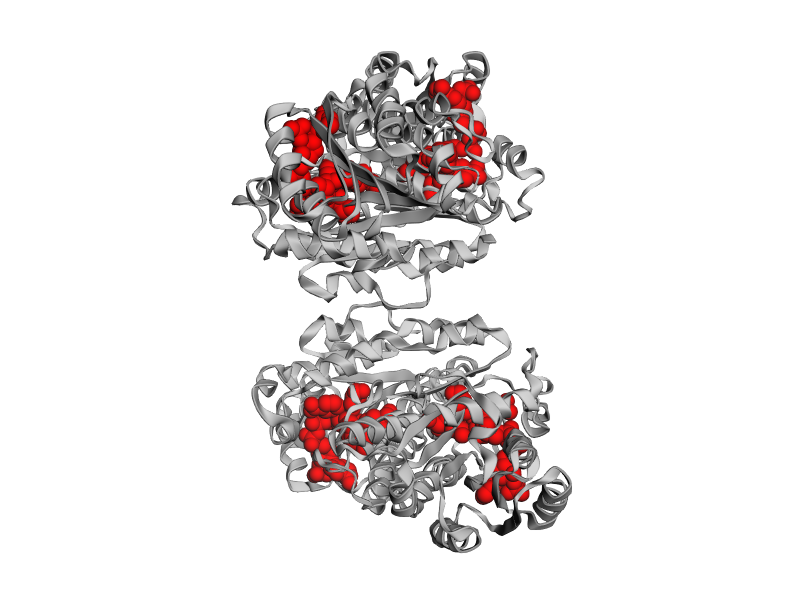
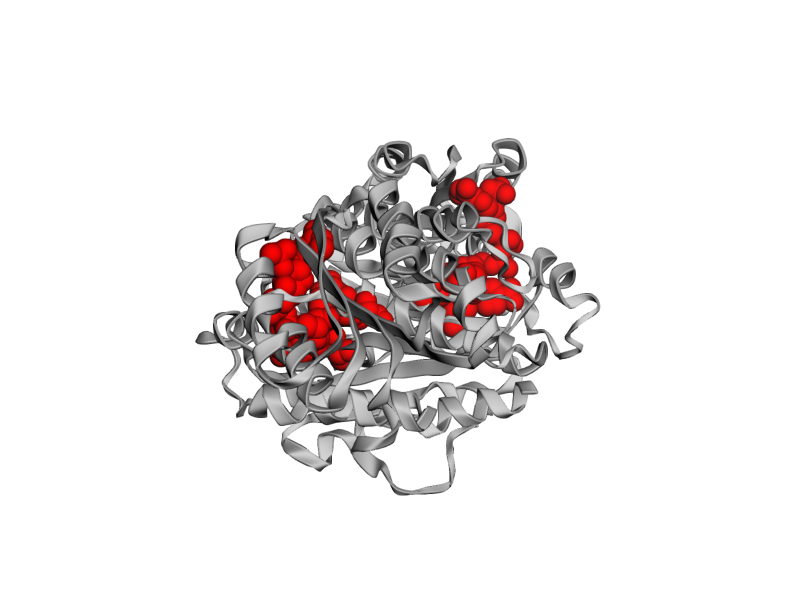
Remove lower molecule (chains A and B) from 11β-HSD1 enzyme image
The user requested to delete the lower half of an image showing two molecules.
Investigation revealed the image depicts the 11β-HSD1 enzyme (PDB 1XU7), which is a tetramer.
Chains A and B constitute the lower dimer, while chains C and D constitute the upper dimer.

Changes:
- Refactored `src/render_protein.py` to include a PDB filtering mechanism.
- The filtering logic removes all ATOM and HETATM records associated with chains A and B.
- This ensures only the upper half (chains C and D) is rendered, avoiding visual artifacts (wireframe ghosts) that occur when using 3Dmol.js selection-based hiding.
- Regenerated `output/images/enzyme_11bhsd1.png` which now correctly displays only the upper dimer.
- Verified that all existing tests pass.

Changed region(s): [[0.25, 0.06, 0.75, 0.93]]

diff --git a/src/render_protein.py b/src/render_protein.py
@@ -1,14 +1,44 @@
 import os
 import asyncio
+import urllib.request
 from playwright.async_api import async_playwright
 
+def download_and_filter_pdb(pdb_id, excluded_chains):
+    """Downloads PDB data and filters out specified chains."""
+    url = f"https://files.rcsb.org/download/{pdb_id}.pdb"
+    try:
+        with urllib.request.urlopen(url) as response:
+            pdb_data = response.read().decode('utf-8')
+    except Exception as e:
+        print(f"Error downloading PDB {pdb_id}: {e}")
+        return None
+
+    filtered_lines = []
+    for line in pdb_data.splitlines():
+        if line.startswith(("ATOM", "HETATM")):
+            # Chain ID is at column 21 (index 21) in PDB format
+            chain_id = line[21].strip()
+            if chain_id in excluded_chains:
+                continue
+        filtered_lines.append(line)
+
+    return "\n".join(filtered_lines)
+
 async def render_enzyme(pdb_id, output_path):
-    """Generates a 3D spacefilling PNG image of an enzyme with highlighted active site."""
+    """Generates a 3D PNG image of the filtered enzyme."""
+
+    # Filter out chains A and B (Lower Half)
+    pdb_content = download_and_filter_pdb(pdb_id, ['A', 'B'])
+    if not pdb_content:
+        return False
+
+    # Escape backticks and other characters for JavaScript string
+    pdb_content_js = pdb_content.replace("\\", "\\\\").replace("`", "\\`").replace("$", "\\$")
 
     html_content = f"""
     <html>
     <head>
-        <script src="https://3Dmol.org/build/3Dmol-min.js"></script>
+        <script src="https://cdnjs.cloudflare.com/ajax/libs/3Dmol/2.4.2/3Dmol-min.js"></script>
     </head>
     <body>
         <div id="container" style="width: 800px; height: 600px; position: relative;"></div>
@@ -17,20 +47,21 @@ async def render_enzyme(pdb_id, output_path):
             let config = {{ backgroundColor: 'white' }};
             let viewer = $3Dmol.createViewer(element, config);
 
-            $3Dmol.download("pdb:{pdb_id}", viewer, {{}}, function() {{
-                // Set global style: cartoon for protein structure
-                viewer.setStyle({{}}, {{ cartoon: {{ color: 'lightgray' }} }});
+            let pdbData = `{pdb_content_js}`;
+            viewer.addModel(pdbData, "pdb");
 
-                // Highlight Ligand (NDP) as red spheres
-                viewer.addStyle({{ resn: 'NDP' }}, {{ sphere: {{ color: 'red' }} }});
+            // Style the remaining chains (C and D - Upper Half)
+            viewer.setStyle({{chain: ['C', 'D']}}, {{ cartoon: {{ color: 'lightgray' }} }});
 
-                // Highlight Catalytic Residues: Ser170, Tyr183, Lys187 as red spheres
-                viewer.addStyle({{ resi: [170, 183, 187], resn: ['SER', 'TYR', 'LYS'] }}, {{ sphere: {{ color: 'red' }} }});
+            // Highlight Ligand (NDP) as red spheres
+            viewer.addStyle({{ resn: 'NDP' }}, {{ sphere: {{ color: 'red' }} }});
 
-                viewer.zoomTo();
-                viewer.render();
-                window.renderComplete = true;
-            }});
+            // Highlight Catalytic Residues: Ser170, Tyr183, Lys187 as red spheres
+            viewer.addStyle({{ resi: [170, 183, 187], resn: ['SER', 'TYR', 'LYS'] }}, {{ sphere: {{ color: 'red' }} }});
+
+            viewer.zoomTo();
+            viewer.render();
+            window.renderComplete = true;
         </script>
     </body>
     </html>
@@ -43,12 +74,9 @@ async def render_enzyme(pdb_id, output_path):
     async with async_playwright() as p:
         browser = await p.chromium.launch()
         page = await browser.new_page()
-        # Set viewport to match container
         await page.set_viewport_size({"width": 800, "height": 600})
         await page.goto(f"file://{os.path.abspath(temp_html)}")
 
-        # Wait for the viewer to signal render completion
-        # We might need a longer timeout for protein download
         await page.wait_for_function("window.renderComplete === true", timeout=60000)
 
         await page.locator("#container").screenshot(path=output_path)
@@ -64,6 +92,6 @@ if __name__ == "__main__":
     os.makedirs(output_dir, exist_ok=True)
     path_enzyme = os.path.join(output_dir, "enzyme_11bhsd1.png")
 
-    print(f"Rendering enzyme 1XU7 to {path_enzyme}...")
+    print(f"Rendering filtered enzyme 1XU7 to {path_enzyme}...")
     asyncio.run(render_enzyme("1XU7", path_enzyme))
     print("Done.")